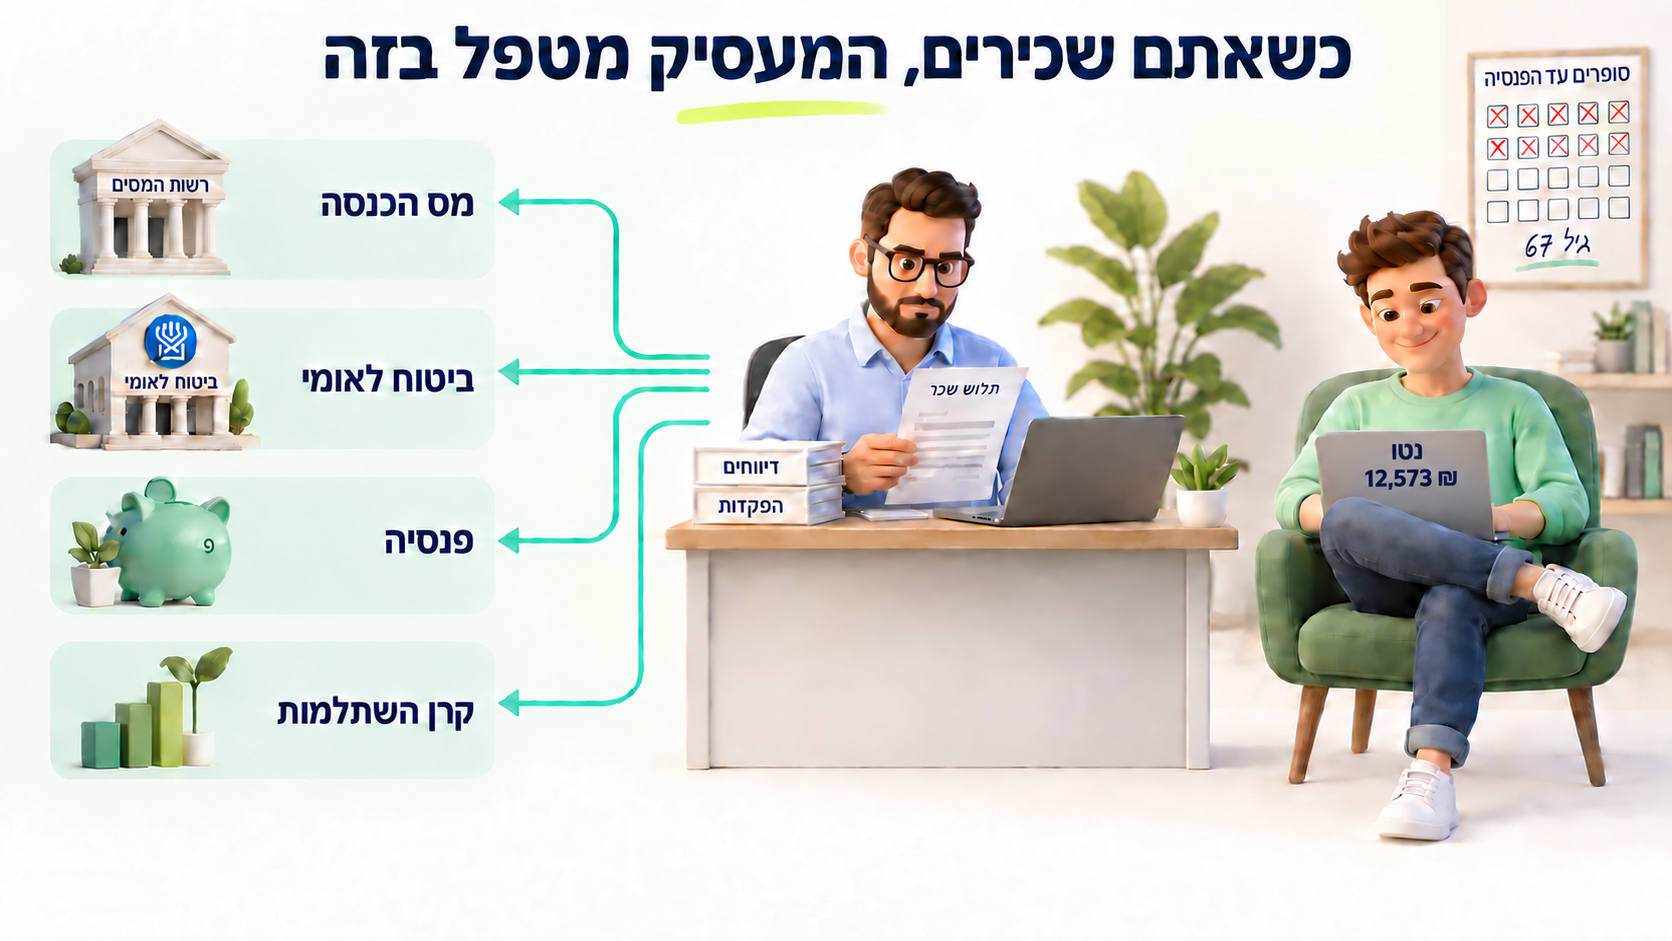
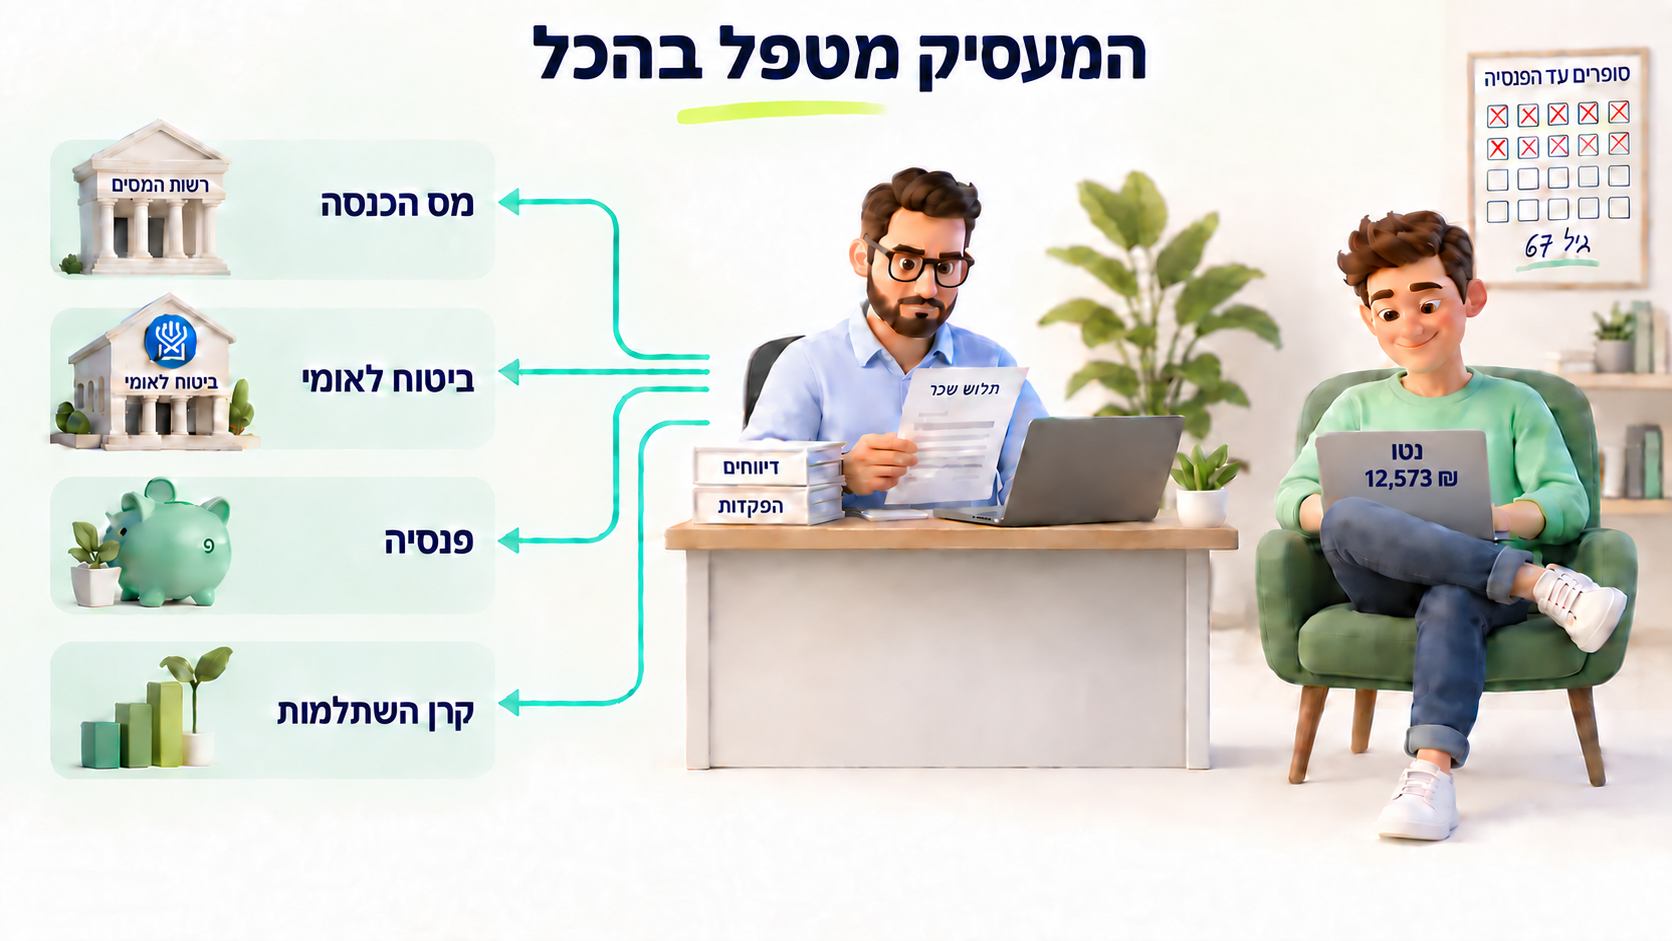
fix(guide): update employee slide headline

diff --git a/frontend/src/app/pages/admin-panel/self-employed-guide.content.ts b/frontend/src/app/pages/admin-panel/self-employed-guide.content.ts
@@ -59,9 +59,9 @@ export const SELF_EMPLOYED_GUIDE_SLIDES: GuideSlide[] = [
   {
     id: 'employee-payroll',
     layout: 'approved-artwork',
-    title: 'כשאתם שכירים, המעסיק מטפל בזה',
+    title: 'המעסיק מטפל בהכל',
     artwork: '/assets/self-employed-guide/employee-payroll-approved.png',
-    artworkAlt: 'כשאתם שכירים, המעסיק מטפל בזה. מעסיק רציני מטפל במס הכנסה, ביטוח לאומי, פנסיה וקרן השתלמות. עובד מחויך מביט במחשב שעליו כתוב נטו 12,573 ₪, ומאחוריו לוח ספירה עד גיל 67.',
+    artworkAlt: 'המעסיק מטפל בהכל. מעסיק רציני מטפל במס הכנסה, ביטוח לאומי, פנסיה וקרן השתלמות. עובד מחויך מביט במחשב שעליו כתוב נטו 12,573 ₪, ומאחוריו לוח ספירה עד גיל 67.',
   },
   {
     id: 'business-types',

diff --git a/frontend/src/app/pages/admin-panel/self-employed-guide.component.spec.ts b/frontend/src/app/pages/admin-panel/self-employed-guide.component.spec.ts
@@ -5,6 +5,7 @@ describe('SelfEmployedGuideComponent', () => {
   let component: SelfEmployedGuideComponent;
   beforeEach(() => component = new SelfEmployedGuideComponent());
   it('orders the main sequence and stops at the authorities hub', () => {
+    expect(component.slides[2].title).toBe('המעסיק מטפל בהכל');
     expect(component.slides.map(s => s.id)).toEqual(['cover', 'basic-concepts', 'employee-payroll', 'business-types', 'income-tax-overview', 'status-comparison', 'micro-blockers', 'tax-authorities']);
     component.previousSlide();
     expect(component.currentSlideIndex).toBe(0);

diff --git a/docs/marketing/employee-payroll-slide.md b/docs/marketing/employee-payroll-slide.md
@@ -1,7 +1,12 @@
 # Employee payroll slide
 
 Approved for implementation on 2026-09-19 after the glossary, as screen 3.
-Title: כשאתם שכירים, המעסיק מטפל בזה.
+Title: המעסיק מטפל בהכל.
+
+2026-09-22: User-requested headline-only edit using built-in image generation,
+source `exec-158c1c37-2f55-4760-ae0c-63dad0903313.png`. All other artwork and
+presenter caveats below remain unchanged. This supersedes the original image
+source/hash and no-regeneration instruction below.
 
 - Final source: `exec-4a09a7ee-c53e-42cc-bc83-794915e47671.png` in
   `C:/Users/harel/.codex/generated_images/01a08785-cca4-74b2-9059-1b7aae1008bc`.

diff --git a/frontend/src/app/pages/admin-panel/AGENTS.md b/frontend/src/app/pages/admin-panel/AGENTS.md
@@ -36,6 +36,7 @@ Internal admin console (tabbed) for staff to manage clients dashboard, the unifi
 ## Related topics
 
 - Screen 3 (`employee-payroll`) is the exact approved employee/employer artwork,
+  with the updated headline `המעסיק מטפל בהכל` (2026-09-22).
   immediately after the glossary. Provenance, locked design and presenter caveats:
   `docs/marketing/employee-payroll-slide.md`. Its net salary is illustrative only.
 
